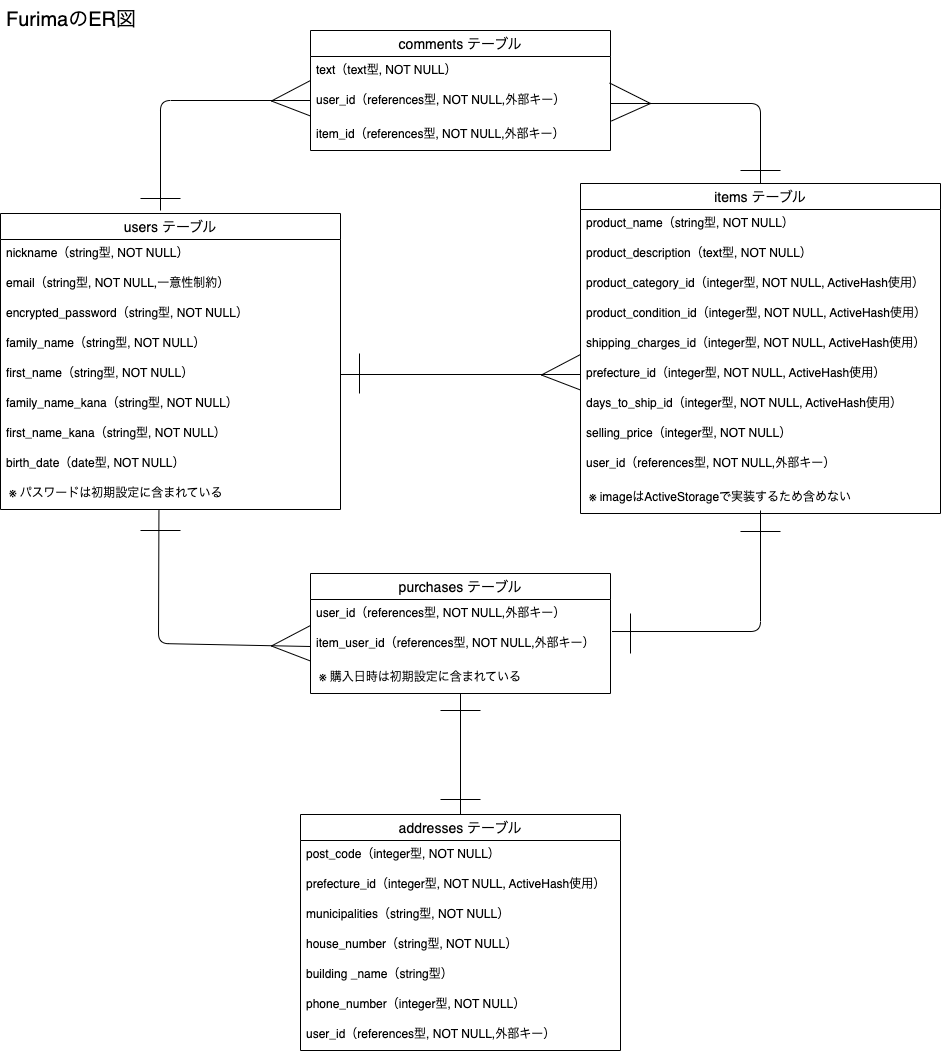
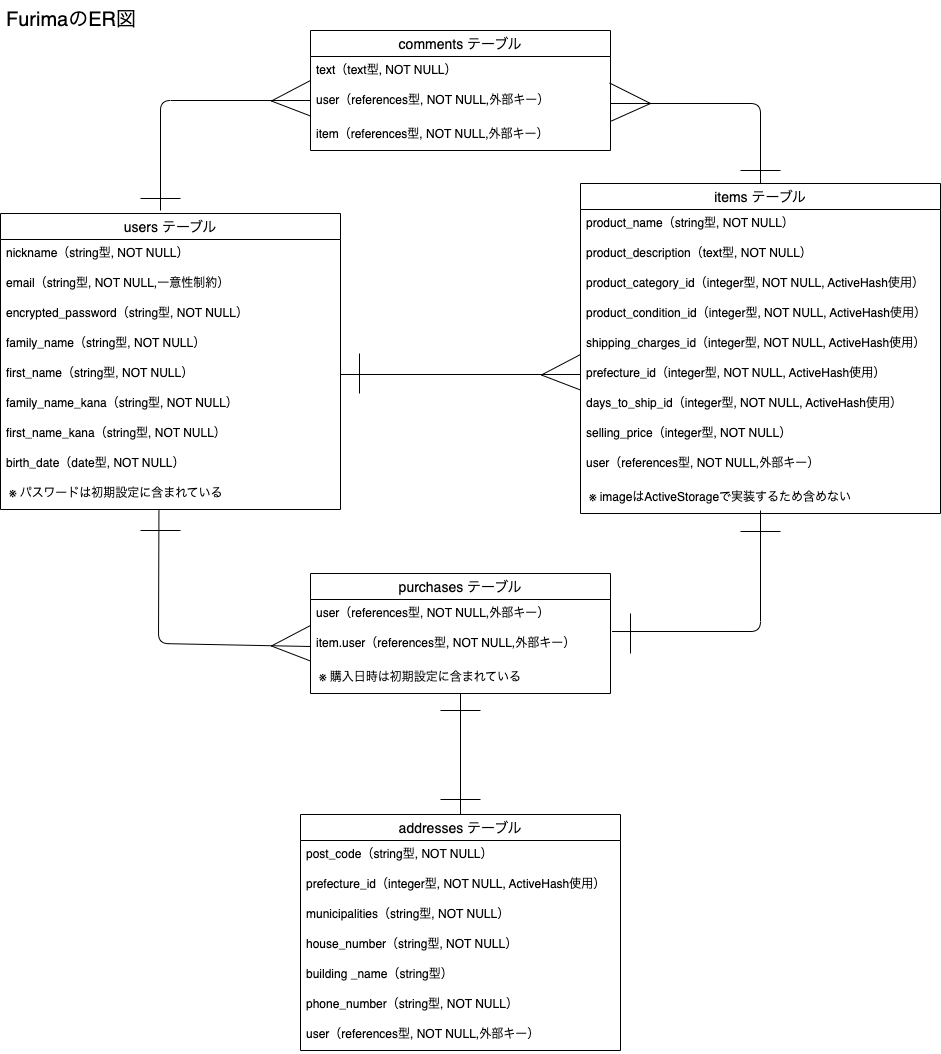
DB設計の修正

diff --git a/README.md b/README.md
@@ -6,11 +6,11 @@
 | ------------------ | ---------- | ------------------------- |
 | nickname           | string     | null: false               |
 | email              | string     | null: false, unique: true |
-| encrypted_password | integer    | null: false               |
-| family_name        | integer    | null: false               |
-| first_name         | integer    | null: false               |
-| family_name_kana   | integer    | null: false               |
-| first_name_kana    | integer    | null: false               |
+| encrypted_password | string     | null: false               |
+| family_name        | string     | null: false               |
+| first_name         | string     | null: false               |
+| family_name_kana   | string     | null: false               |
+| first_name_kana    | string     | null: false               |
 | birth_date         | date       | null: false               |
 
 ### Association
@@ -21,17 +21,17 @@
 
 ## itemsテーブル
 
-| Column                | Type       | Options                        |
-| --------------------- | ---------- | ------------------------------ |
-| product_name          | string     | null: false                    |
-| product_description   | text       | null: false                    |
-| product_category_id   | integer    | null: false                    |
-| product_condition_id  | integer    | null: false                    |
-| shipping_charges_id   | integer    | null: false                    |
-| prefecture_id         | integer    | null: false                    |
-| days_to_ship_id       | integer    | null: false                    |
-| selling_price         | integer    | null: false                    |
-| user_id               | references | null: false, foreign_key: true |
+| Column               | Type       | Options                        |
+| -------------------- | ---------- | ------------------------------ |
+| product_name         | string     | null: false                    |
+| product_description  | text       | null: false                    |
+| product_category_id  | integer    | null: false                    |
+| product_condition_id | integer    | null: false                    |
+| shipping_charges_id  | integer    | null: false                    |
+| prefecture_id        | integer    | null: false                    |
+| days_to_ship_id      | integer    | null: false                    |
+| selling_price        | integer    | null: false                    |
+| user                 | references | null: false, foreign_key: true |
 
 ### Association
 - belongs_to :user
@@ -41,10 +41,10 @@
 
 ## purchasesテーブル
 
-| Column       | Type       | Options                        |
-| ------------ | ---------- | ------------------------------ |
-| user_id      | references | null: false, foreign_key: true |
-| item_user_id | references | null: false, foreign_key: true |
+| Column    | Type       | Options                        |
+| --------- | ---------- | ------------------------------ |
+| user      | references | null: false, foreign_key: true |
+| item.user | references | null: false, foreign_key: true |
 
 ### Association
 - belongs_to :user
@@ -56,13 +56,13 @@
 
 | Column         | Type       | Options                        |
 | -------------- | ---------- | ------------------------------ |
-| post_code      | integer    | null: false                    |
+| post_code      | string     | null: false                    |
 | prefectures_id | integer    | null: false                    |
 | municipalities | string     | null: false                    |
 | house_number   | string     | null: false                    |
 | building _name | string     |                                |
-| phone_number   | integer    | null: false                    |
-| user_id        | references | null: false, foreign_key: true |
+| phone_number   | string     | null: false                    |
+| user           | references | null: false, foreign_key: true |
 
 ### Association
 - belongs_to :purchase
@@ -70,11 +70,11 @@
 
 ## commentsテーブル
 
-| Column       | Type       | Options                        |
-| ------------ | ---------- | ------------------------------ |
-| text         | text       | null: false                    |
-| user_id      | references | null: false, foreign_key: true |
-| item_id      | references | null: false, foreign_key: true |
+| Column | Type       | Options                        |
+| ------ | ---------- | ------------------------------ |
+| text   | text       | null: false                    |
+| user   | references | null: false, foreign_key: true |
+| item   | references | null: false, foreign_key: true |
 
 ### Association
 - belongs_to :user
